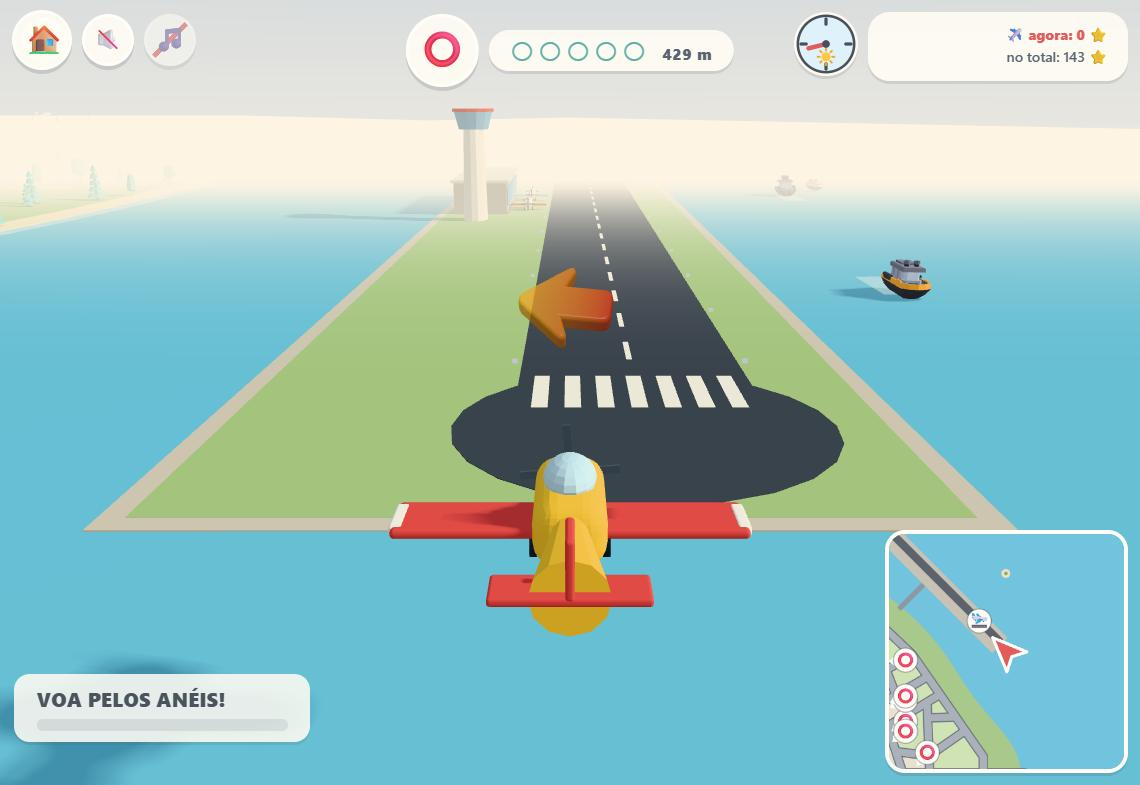
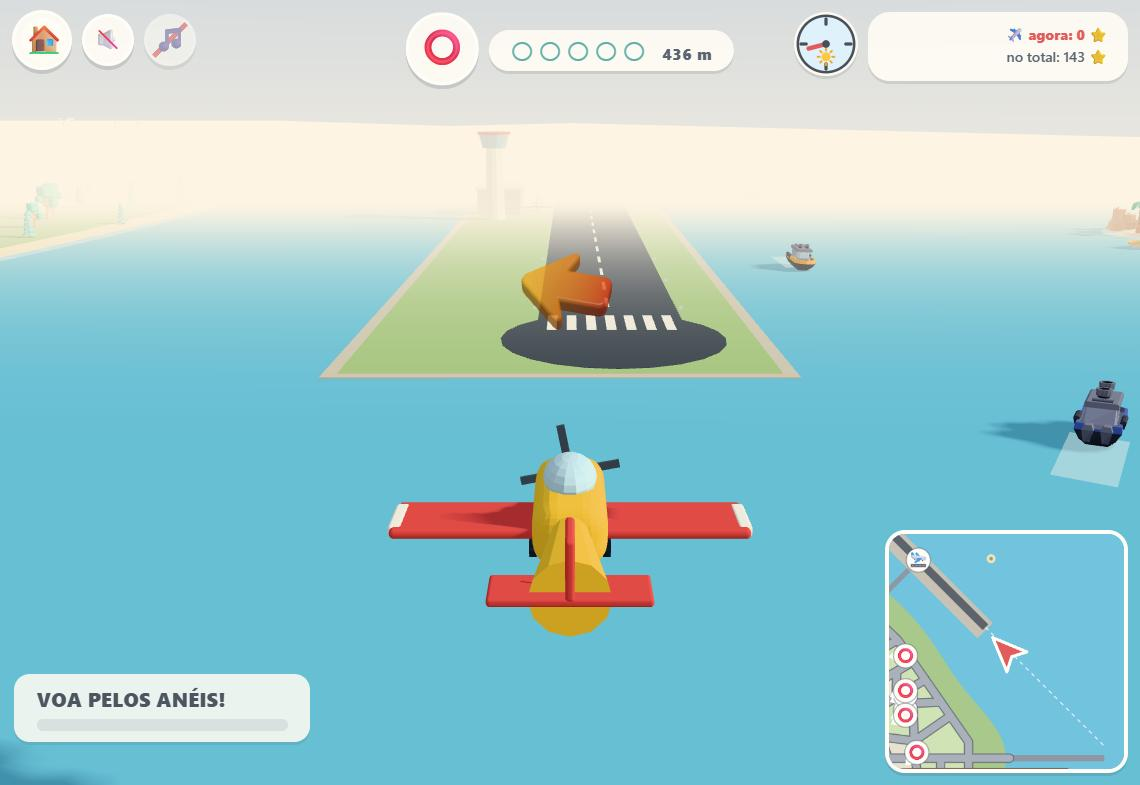
Plane: the map's 🛬 marks the airport of the island the plane is over, on its runway — it led to the nearest of the nearby islands' (near an island's edge, a neighbour's) or to a gate out in the open sea — and the runway's centre line is dotted out from both ends on the map, the way in to line up wit

diff --git a/tools/check-airport.ts b/tools/check-airport.ts
@@ -6,7 +6,7 @@
 //    160 m; its causeway lands on dry land, off the river's mouth; and it is
 //    never in the SE corner (the harbour's).
 //  · On three of them, the real plane (player.ts physics) flown by a kid who
-//    steers at the map's mark (Landing.mark): from the edges of the approach
+//    follows the map's dotted centre line (kidAim): from the edges of the approach
 //    funnel (over the runway, near and far, either side at 90 % of its
 //    width, either way along the runway, 43° off either way; auto speed on,
 //    off, and off with the brake held) and from all round 600 m out — each must come down, touch
@@ -18,19 +18,21 @@
 //    anywhere along it that has room to land — lands. (A plane pointing
 //    10° further out is off the runway by the time it is down: it needs
 //    steering, and the descent is called off.)
+//  · The map's mark is the airport of the island the plane is over (its
+//    runway's middle), even where a neighbour's runway is nearer.
 //  · Descents called off — lined up 500 m out, coming down, then steering
 //    away square to the runway or a tap of the gas: no landing, and it
 //    climbs back to its cruise (the kid flies it in; it is never pulled in).
 //   npx tsx tools/check-airport.ts [baseSeed]
 import './headless-dom.js';
-import { setCityBase, CITY_PITCH, southExit, eastExit } from '../src/worlds/cityGrid.js';
+import { setCityBase, CITY_PITCH, southExit, eastExit, cityAt } from '../src/worlds/cityGrid.js';
 import { coastFor } from '../src/worlds/coast.js';
 import { riverFor } from '../src/worlds/riverRoute.js';
 import { RAIL_OFFSET } from '../src/worlds/railRoute.js';
 import { ISLAND, CENTER } from '../src/worlds/world.js';
-import { airportFor, boxPoint, RUNWAY_HW, RUNWAY_Y } from '../src/games/city/airport.js';
+import { airportFor, airportMark, boxPoint, RUNWAY_HW, RUNWAY_Y } from '../src/games/city/airport.js';
 import { harbourFor, inSeaBox } from '../src/games/city/harbour.js';
-import { Landing, type Runway, type LandEvent } from '../src/games/city/landing.js';
+import { Landing, APPROACH_LEN, type Runway, type LandEvent } from '../src/games/city/landing.js';
 import { createPlayer, physicsStep, VEHICLES, type PlayerState } from '../src/games/city/player.js';
 
 const base = Number(process.argv.slice(2).find(a => !a.startsWith('--')) ?? 7) | 0;
@@ -121,7 +123,28 @@ const runwayOf = (bx: number, by: number): { R: Runway; pad: number } => {
   const A = airportFor(bx, by);
   return { R: { key: `${bx},${by}`, cx: A.runway.cx + bx * CITY_PITCH, cz: A.runway.cz + by * CITY_PITCH, yaw: A.runway.yaw, hl: A.runway.hl }, pad: A.pad };
 };
-const atMark = (_t: number, st: PlayerState, L: Landing, R: Runway): { to: { x: number; z: number } | null; gas: boolean } => ({ to: L.mark(st, [R]), gas: false });
+/** where a kid steers who follows the map's dotted centre line: down it when
+ * lined up with it (the end the plane is heading along), else out to it —
+ * 350 m short of the nearer end */
+function kidAim(R: Runway, st: PlayerState): { x: number; z: number } {
+  let aligned: { x: number; z: number } | null = null, off = Infinity;
+  let gate = { x: R.cx, z: R.cz }, gd = Infinity;
+  for (const yaw of [R.yaw, R.yaw + Math.PI]) {
+    const fx = Math.sin(yaw), fz = Math.cos(yaw), dx = st.x - R.cx, dz = st.z - R.cz;
+    const a = dx * fx + dz * fz, l = dx * fz - dz * fx, short = -R.hl - a;
+    const hd = Math.abs(Math.atan2(Math.sin(st.heading - yaw), Math.cos(st.heading - yaw)));
+    if (a <= R.hl && short <= APPROACH_LEN && Math.abs(l) <= 12 + 0.4 * Math.max(0, short) && hd < off) {
+      off = hd;
+      const am = Math.min(R.hl - 60, a + Math.max(80, 0.45 * Math.max(0, short + 30) + 60));
+      aligned = { x: R.cx + fx * am, z: R.cz + fz * am };
+    }
+    const g = { x: R.cx - fx * (R.hl + 350), z: R.cz - fz * (R.hl + 350) };
+    const d = Math.hypot(g.x - st.x, g.z - st.z);
+    if (d < gd) { gd = d; gate = g; }
+  }
+  return aligned ?? gate;
+}
+const atMark = (_t: number, st: PlayerState, _L: Landing, R: Runway): { to: { x: number; z: number } | null; gas: boolean } => ({ to: kidAim(R, st), gas: false });
 
 let landings = 0, worstStop = -Infinity, followed = 0, cancels = 0;
 const judge = (label: string, f: Flight): void => {
@@ -148,7 +171,7 @@ for (const [bx, by] of [[1, 0], [2, 2], [0, 1]] as const) {
     const start: PlayerState = { x: R.cx + Math.cos(ang) * 600, z: R.cz + Math.sin(ang) * 600, heading: ang + Math.PI, v: 16, alt: 30 };
     const f = flight(R, pad, start, 240, 'auto', (t, st, L) => atMark(t, st, L, R));
     if (f.landed && f.airborne && !f.offRunway) followed++;
-    else fail(`${bx},${by}: flying at the mark from ${(ang * 180 / Math.PI).toFixed(0)}° round, 600 m out: ${f.offRunway ? 'off the runway' : f.phases.join(' → ') || 'no descent'}`);
+    else fail(`${bx},${by}: following the line from ${(ang * 180 / Math.PI).toFixed(0)}° round, 600 m out: ${f.offRunway ? 'off the runway' : f.phases.join(' → ') || 'no descent'}`);
   }
   // calling it off: lined up 500 m out, coming down — then steering away
   // (square to the runway) or pressing the gas: no landing, and it climbs
@@ -160,7 +183,7 @@ for (const [bx, by] of [[1, 0], [2, 2], [0, 1]] as const) {
     const label = `${R.key} ${dir ? 'back' : 'along'}: called off by ${how === 'steer' ? 'steering away' : 'the gas'}`;
     const f = flight(R, pad, start, 40, 'auto', (t, st, L) => {
       if (L.phase === 'descend') descending = true;
-      if (t < 12) return { to: L.mark(st, [R]), gas: false };
+      if (t < 12) return { to: kidAim(R, st), gas: false };
       if (calledOff < 0 && L.phase === 'fly') calledOff = t;
       return how === 'steer'
         ? { to: { x: st.x + fz * 1000, z: st.z - fx * 1000 }, gas: false }
@@ -187,8 +210,22 @@ for (const [bx, by] of [[1, 0], [2, 2], [0, 1]] as const) {
     else fail(`${R.key} ${dir ? 'back' : 'along'}: flying over the runway hands-off from ${a0.toFixed(0)} m along, ${l0} m off, ${(turn * 57.3).toFixed(0)}°: ${f.offRunway ? 'off the runway (' + f.offRunway + ')' : f.phases.join(' → ') || 'no descent'}`);
   }
 }
+// ---- the map's mark is the airport of the island the plane is over: its
+// runway's middle (world) — not a neighbour's, which near an island's edge
+// is the nearer ----
+{
+  let ok = 0, tried = 0;
+  for (const [bx, by] of [[1, 0], [2, 2], [0, 1]] as const) for (const [nx, ny] of [[1, 0], [-1, 0], [0, 1], [0, -1]] as const) {
+    const here = { x: bx * CITY_PITCH + CENTER + nx * 640, z: by * CITY_PITCH + CENTER + ny * 640 };
+    const c = cityAt(here.x, here.z), m = airportMark(c.bx, c.by), own = runwayOf(c.bx, c.by).R;
+    tried++;
+    if (c.bx === bx && c.by === by && Math.hypot(m.x - own.cx, m.z - own.cz) < 1) ok++;
+    else fail(`${bx},${by}: over the island's ${nx},${ny} side (cell ${c.bx},${c.by}) the map's mark is ${Math.hypot(m.x - own.cx, m.z - own.cz).toFixed(0)} m from its airport`);
+  }
+  console.log(`map mark: ${ok} of ${tried} on the island's own airport`);
+}
 console.log(`hands off over the runway: ${handsOff} of ${handsOffTried} landed`);
-console.log(`following the mark: ${followed} of 24 landed; ${cancels} of 12 descents called off (steering away, the gas) climbed back`);
+console.log(`following the dotted line: ${followed} of 24 landed; ${cancels} of 12 descents called off (steering away, the gas) climbed back`);
 console.log(`landings: ${landings} flown — every one down on the runway, stopped (the furthest ${(-worstStop).toFixed(0)} m short of its end), turned and back in the air`);
 
 console.log(fails ? `FAIL — ${fails} problem(s) with the airports (R41)` : 'PASS — every island has its airport, and the plane lands, stops, turns and takes off (R41)');

diff --git a/src/games/city/landing.ts b/src/games/city/landing.ts
@@ -15,7 +15,8 @@
 // on (G18), else rolling to a gentle stop, the brake pedal stopping it sooner
 // (and never past the runway's end) — turns round on the spot, races back
 // down the runway, lifts off and climbs back to its cruise, where the kid has
-// it again. The map's mark leads the kid in (`mark`).
+// it again. The map marks the airport (🛬) and draws the runway's centre line
+// out from both ends, to line up with.
 import type { PhysicsInput, PlayerState } from './player.js';
 import { RUNWAY_Y, RUNWAY_HW } from './airport.js';
 
@@ -26,8 +27,10 @@ export type LandPhase = 'fly' | 'descend' | 'roll' | 'turn' | 'takeoff';
 export type LandEvent = 'land' | 'cancel' | 'landed' | 'takeoff' | 'airborne';
 
 /** where a descent may begin: up to this far short of the threshold (m), or
- * anywhere over the runway */
-const FROM = 700;
+ * anywhere over the runway — the map draws the runway's centre line out this
+ * far from both ends, for the kid to line up with */
+export const APPROACH_LEN = 700;
+const FROM = APPROACH_LEN;
 /** how far off its heading (rad), and off the centre line: a funnel, W0 m
  * either side at the threshold (and over the runway) and widening by SPLAY
  * a metre out */
@@ -35,9 +38,6 @@ const ALIGN = 50 * Math.PI / 180, W0 = 12, SPLAY = 0.4;
 /** the steepest glide it will ask for (m a metre): from over the runway
  * it comes down at ~4 m/s at the approach speed */
 const MAX_SLOPE = 0.35;
-/** the map's mark: the gate this far out on the centre line, where the
- * approach is flown from */
-const GATE = 350;
 /** the glide: down to the runway at the touchdown point, this far past the
  * threshold (m), on this slope (m a metre) — and the approach speed (m/s) */
 const TOUCH = 30, SLOPE = 0.07, V_APP = 12;
@@ -112,37 +112,8 @@ export class Landing {
     return tp > rw.hl - TD_ROOM ? null : tp;
   }
 
-  /** a point on the centre line ahead of the plane (world): fly at it and
-   * the plane comes onto the line before the touchdown, then on down it */
-  private carrot(rw: Runway, st: PlayerState): { x: number; z: number } {
-    const { a } = this.frame(rw, st.x, st.z);
-    const toTouch = (this.phase === 'descend' ? this.tp : -rw.hl + TOUCH) - a;
-    const am = Math.min(rw.hl, a + (toTouch > 0 ? Math.max(80, 0.45 * toTouch + 60) : 80));
-    return { x: rw.cx + Math.sin(rw.yaw) * am, z: rw.cz + Math.cos(rw.yaw) * am };
-  }
-
-  /** where the map marks the way in (world): coming down, or in the funnel
-   * in front of one of the nearest runway's ends, a point on its centre line
-   * ahead — fly at it and the plane lines up and lands; else the nearer of
-   * its two gates, out on its centre line */
-  mark(st: PlayerState, runways: Runway[]): { x: number; z: number } | null {
-    let r: Runway | null = null, bd = Infinity;
-    for (const q of runways) {
-      const d = Math.hypot(q.cx - st.x, q.cz - st.z);
-      if (d < bd) { bd = d; r = q; }
-    }
-    if (!r) return null;
-    if (this.rw && this.rw.key === r.key && this.phase === 'descend') return this.carrot(this.rw, st);
-    let gate: { x: number; z: number } | null = null, gd = Infinity;
-    for (const yaw of [r.yaw, r.yaw + Math.PI]) {
-      const fx = Math.sin(yaw), fz = Math.cos(yaw);
-      if (this.inFunnel({ ...r, yaw }, st.x, st.z)) return this.carrot({ ...r, yaw }, st);
-      const g = { x: r.cx - fx * (r.hl + GATE), z: r.cz - fz * (r.hl + GATE) };
-      const d = Math.hypot(g.x - st.x, g.z - st.z);
-      if (d < gd) { gd = d; gate = g; }
-    }
-    return gate;
-  }
+  /** the key of the runway being landed on (null when flying) */
+  get active(): string | null { return this.phase === 'descend' && this.rw ? this.rw.key : null; }
 
   /** In the air (before the physics): starts and flies a descent — returns
    * the altitude to hold (the glide's), or null for the cruise (`cruise`

diff --git a/src/games/city/index.ts b/src/games/city/index.ts
@@ -5,7 +5,7 @@ import { createStage, makeHUD, applyQuality, type Dressing } from '../../engine/
 import { TIERS, startQuality, qualityPref, setAutoQuality, lowerQuality, higherQuality, autoSpeed, type Quality } from '../../engine/settings.js';
 import { autoInput, type AutoGoal } from './autoSpeed.js';
 import { Landing, type Runway } from './landing.js';
-import { airportFor } from './airport.js';
+import { airportFor, airportMark } from './airport.js';
 import { bakedNight, templateToMesh } from '../../engine/baked.js';
 import { dayState, startPhase, hourOf, DAY_LEN, MOON_PHASES } from '../../engine/daylight.js';
 import { prepBakedModels, bakedModel } from '../../engine/assets.js';
@@ -796,11 +796,11 @@ const minimap = new Minimap(document.getElementById('minimap') as HTMLCanvasElem
       ...(landing && (landing.phase === 'fly' || landing.phase === 'descend') ? nearestRunway() : []),
     ];
   });
-/** the plane's map mark (R41): the way in to the nearest runway — out to
- * the gate on its centre line, then its end (landing.ts mark) */
+/** the plane's map mark (R41): the airport of the island it is over (or of
+ * the runway it is coming down to) */
 function nearestRunway(): Array<{ x: number; z: number; icon: string }> {
-  const m = landing?.mark(player.state, runwaysNear(player.state.x, player.state.z));
-  return m ? [{ ...m, icon: '🛬' }] : [];
+  const [bx, by] = (landing?.active ?? (() => { const h = cityAt(player.state.x, player.state.z); return `${h.bx},${h.by}`; })()).split(',').map(Number);
+  return [{ ...airportMark(bx, by), icon: '🛬' }];
 }
 
 // ---- the city grid: drive across a strait and the next city wakes up.

diff --git a/src/games/city/minimap.ts b/src/games/city/minimap.ts
@@ -16,6 +16,7 @@ import { WORLD_CHUNKS, ISLAND, CENTER } from '../../worlds/world.js';
 import { CITY_PITCH } from '../../worlds/cityGrid.js';
 import { bridgeLayout } from './bridge.js';
 import { airportFor, boxPoint } from './airport.js';
+import { APPROACH_LEN } from './landing.js';
 import { coastFor, causewaySpan } from '../../worlds/coast.js';
 import { isletsFor } from './islets.js';
 import { callIcon, type Missions } from './missions.js';
@@ -221,6 +222,18 @@ export class Minimap {
       quad(A.link, '#8f97a3');
       quad(A.isle, '#c8c2b4');
       quad({ ...A.runway, hl: A.runway.hl + A.pad }, '#5c636d');
+      // the runway's centre line, dotted out from both ends: the way in
+      ctx.strokeStyle = 'rgba(255,255,255,0.9)';
+      ctx.lineWidth = 2.5 * PX;
+      ctx.setLineDash([9 * PX, 9 * PX]);
+      ctx.beginPath();
+      for (const end of [-1, 1]) {
+        const a = boxPoint(A.runway, end * (A.runway.hl + A.pad), 0), b = boxPoint(A.runway, end * (A.runway.hl + APPROACH_LEN), 0);
+        ctx.moveTo(tx(a.x), ty(a.z));
+        ctx.lineTo(tx(b.x), ty(b.z));
+      }
+      ctx.stroke();
+      ctx.setLineDash([]);
     }
 
     // the river, ribbon-width

diff --git a/src/games/city/airport.ts b/src/games/city/airport.ts
@@ -15,7 +15,7 @@ import * as THREE from 'three';
 import { Baked } from '../../engine/baked.js';
 import { ISLAND, CENTER } from '../../worlds/world.js';
 import { coastFor } from '../../worlds/coast.js';
-import { southExit, eastExit, citySeed } from '../../worlds/cityGrid.js';
+import { southExit, eastExit, citySeed, CITY_PITCH } from '../../worlds/cityGrid.js';
 import { RAIL_OFFSET } from '../../worlds/railRoute.js';
 import { riverFor } from '../../worlds/riverRoute.js';
 import type { CollisionBox } from '../../worlds/cityChunk.js';
@@ -143,6 +143,12 @@ export function airportFor(bx: number, by: number): Airport {
   cache.set(key, best);
   if (cache.size > 32) cache.delete(cache.keys().next().value as string);
   return best;
+}
+
+/** where the map marks island (bx, by)'s airport: its runway's middle (world) */
+export function airportMark(bx: number, by: number): { x: number; z: number } {
+  const r = airportFor(bx, by).runway;
+  return { x: r.cx + bx * CITY_PITCH, z: r.cz + by * CITY_PITCH };
 }
 
 /** is (x, z) — city-local — on the airport's island or its causeway

diff --git a/AGENTS.md b/AGENTS.md
@@ -89,7 +89,7 @@ add it here AND add an enforcement point (code guard or audit check).
 | R19 | **The archipelago contract:** each (bx, by) cell is one island city; its four causeway avenues run 300 m straight in from the mouths (`EXIT_IN`), are laid first, are never dropped and each meets the street web inland (the ring road crosses them). Edge exits derive from the *owning* cell so neighbours always agree, and are drawn only from the central lines (the middle line ±3: 7…13 on the 21-chunk island) so every corridor lands on a headland. | `streetGen.ts`, `cityGrid.ts`, `audit-world.ts` |
 | R39 | **Island size lives in one place.** `world.ts`: `WORLD_CHUNKS` = 21 (1344 m islands) and `SCALE` = ISLAND / 896, the size the rules were first tuned on. What is a proportion of the island scales with SCALE — the coast radius (R0 = 360–430 m ×SCALE, headlands ~120 m wide whatever the size), district rings, the diamond's central 384 m search square (fixed), the river's central lane band (±248 m ×SCALE), nature corners (3/14 of the side), the lattice range; what grows with area scales with SCALE² — patches, subdivision rounds, plazas, the car / walker caps; lengths of line with SCALE — rail free points, stations per line, industry cluster, boats. Street-, vehicle- and clearance-scale metres (ROAD_HALF, MIN_EDGE, CLEARANCE, RING_INSET, STEM, EXIT_IN, every TIERS value…) never scale. No generator or tool hard-codes 14 chunks / 896 m: they import `WORLD_CHUNKS` / `ISLAND` / `SCALE`. | `world.ts`, `coast.ts`, `cityGrid.ts`, `railRoute.ts`, `riverRoute.ts`, `streetGen.ts`, `cityPlan.ts`, `island/cars.ts`, `island/walkers.ts`, `sea.ts`, `tools/*` |
 | R40 | **Wherever a street or a railway line crosses the river, it crosses on a real bridge.** `riverDecks.ts` turns each crossing into a raised deck: a street bridge spans exactly the kit road tiles over the water and a ramp (9 m) past both banks (the chunk baker drops those tiles and bakes a humped deck — asphalt, kerbs, walkways, cream parapets, steel fascia girders, stone piers — its crown 1.4 m up, the water flowing on beneath); a line's in-water run gets a timber trestle along its (straight, R27) chord, ramps 12 m past the banks, crown 1.2 m (transit drops the track pieces it covers and bakes deck, sleepers, rails, guard rails and posts). `causeway.deckAt()` reports them, so the kid's vehicle, the island's cars, walkers, the getaway car and every train ride up and over (a road vehicle on a deck isn't slowed as if fording). **Nothing is built on a deck**: a deck is 10 m wide each side of the street and runs a ramp and a kit tile past both banks, while lots keep only 7.9 m from a centreline — houses, buildings and yards stood on the walkways and parapets of every bridge (seed 912064659, island (2,0)) — so `addLot` keeps every lot outline clear of each river bridge's reach (`deckDims.ts deckReach`: the river's half-width + 2.5 m of bank + the 9 m ramp + a 14 m tile, 1.5 m more each way, across `BRIDGE_HALF` + 1.5 m; the deck's own geometry isn't known yet when lots are laid, so the reach is the most a deck can span), the grid paints each road deck's whole rectangle DECK (props and trees never claim DECK — `BLOCKED_FOR_PROPS` — while walkers still walk its walkways: painted ROAD they took the walkway for the carriageway and turned back), an industrial chimney or water tower claims its real footprint (it claimed a token 1.6 m and a 5 m tower stood on a walkway), and the audit fails any lot outline within a road deck (+1 m) or a deck cell without DECK (R40; R33's buildable ground leaves the bridges' reach out). A street whose tiles can't reach a ramp past the water, or a line whose track leaves its chord by 0.8 m or has a level crossing on a ramp, keeps the plain crossing. `riverDeckAt` answers only on an island already built (R21). The parapets are a soft wall: up on a raised deck a road vehicle slides along them, its side kept inside, never off the bridge (`player.ts offDeckSide`). | `riverDecks.ts`, `deckDims.ts`, `cityPlan.ts addLot`, `grid.ts`, `causeway.ts deckAt`, `cityChunk.ts bakeBridgeDeck`, `transit.ts bakeTrestle`, `island/cars.ts`, `island/walkers.ts`, `robber.ts`, `index.ts` |
-| R41 | **Every island has an airport, on its own island off a corner — and the plane lands on it by itself.** A reclaimed island Changi-style (`airport.ts airportFor`), laid by the game layer from the coast alone like the picnic island (the city plan, its streets and lots are untouched: `tools/plan-hash.ts` stays the same), in whichever of the NW / NE / SW corners has the most room (never the SE: the pier, the anchored ship and the big ships are there): 48 m wide, lying along the shore (turned up to ±0.3 rad to follow it) 70 m out — past the three boat lanes, which swing out round the whole of it (`sea.ts`: past the farthest of it each way out from the shore crosses) — inside the cell by 30 m, 60 m clear of the causeway corridors, the picnic island and the harbour, as long as fits (up to 430 m; its runway about 260–400 m, never under 160), joined to the shore by a low causeway square to it (onto dry land, off the river's mouth) that the road vehicles drive out on (`player.ts onGround`; boats slide along both, `onLand`; the big ships keep 45 m off, the treasure islets 75 m). On it: the runway seaward of its middle (18 m, centre dashes, piano keys at both thresholds, a turning pad at each end — no painted numbers: G9), its edge lights every 20 m (grey studs by day, glowing at night: G10), and shoreward the apron: the terminal (glass front), the control tower, a hangar (solid, G14), a windsock and two planes at the gates; it is on the minimap, and flying the plane the way in to the nearest runway is marked there (🛬, on the map's rim pointing the way when it's off it; a mark at the runway's middle brought the plane in square to it from the island, and it never landed). **Landing is free play, flown by the kid** (`landing.ts`): pointed roughly down a runway — up to 700 m short of either threshold or anywhere over the runway itself, in a funnel 12 m either side of its centre line (the runway's width) widening by 0.4 m a metre out, heading within 50° along it, with room to land — the plane starts to come down (`Landing.fly` hands the physics the height to hold; flying over the runway once did nothing at all, since the descent began only in the approach zone): it sinks along a glide toward a touchdown point — a 0.07 slope from far out to 30 m past the threshold, a steeper one (up to 0.35, ~4 m/s) when it is already over the runway, whose touchdown point is that far along it with 40 m of runway to spare — never above where the descent began, and eases to its 12 m/s approach speed — but the kid flies it the whole way, steering as always (it was once taken over and flown in like a magnet: not what was wanted). Steering it out of the funnel, turning it more than 70° off, or the kid's own gas pedal (not auto speed's, which leaves the gas alone while it comes down) calls it off, and it climbs back to its cruise; that runway end starts no new descent until the plane has been out of its funnel for 3 s. Close to the ground (below 8 m) over the runway it eases round onto the runway's heading and toward its centre line (0.6 rad/s), unless the kid is steering hard — so a kid a little off the line still lands. Over the runway lined up — within 6.5 m of the centre line and 25° of its heading — it touches down; not lined up it holds 4 m up and, past the runway, climbs away. On the ground the landing has it (`Landing.ground`): with auto speed on (G18) it brakes itself to a stop (2.5 m/s²), else it rolls to a gentle stop (1.5 m/s²) and the brake pedal stops it sooner (7) — never past the runway's end; standing, it turns round on the spot (3.5 s), races back down the runway, lifts off at 11 m/s and climbs away, the kid's again at 12 m. The map's 🛬 leads the kid in (`Landing.mark`): to the nearer gate 350 m out on the centre line, then — in the funnel or coming down — a point on the centre line ahead, so flying at it lines the plane up and lands it. The narrator says each (`say-land`, `say-landed`, `say-takeoff`); R cancels a landing. `tools/check-airport.ts [seed]` holds the layouts on the 25 islands round the origin and, with the real plane physics and a kid steering at the mark, flies on each of three: 96 landings from the funnel's edges (over the runway, near and far, both ways, either side at 90 % of its width, 43° off either way; auto on, off, braking), 36 flown hands off over the runway (within 6 m of the centre line, straight, pointing back in or drifting out 3°) and 8 from all round 600 m out — each must touch down on the runway, never leave it or its pads on the ground, stop before its end, turn and take off again — and 4 descents called off (steering away square to the runway, a tap of the gas): none may land, each must climb back to 25 m; `tools/check-sea.ts` holds the boats off it. | `airport.ts`, `landing.ts`, `index.ts`, `player.ts`, `sea.ts`, `islets.ts`, `scenery.ts`, `minimap.ts`, `tools/check-airport.ts` |
+| R41 | **Every island has an airport, on its own island off a corner — and the plane lands on it by itself.** A reclaimed island Changi-style (`airport.ts airportFor`), laid by the game layer from the coast alone like the picnic island (the city plan, its streets and lots are untouched: `tools/plan-hash.ts` stays the same), in whichever of the NW / NE / SW corners has the most room (never the SE: the pier, the anchored ship and the big ships are there): 48 m wide, lying along the shore (turned up to ±0.3 rad to follow it) 70 m out — past the three boat lanes, which swing out round the whole of it (`sea.ts`: past the farthest of it each way out from the shore crosses) — inside the cell by 30 m, 60 m clear of the causeway corridors, the picnic island and the harbour, as long as fits (up to 430 m; its runway about 260–400 m, never under 160), joined to the shore by a low causeway square to it (onto dry land, off the river's mouth) that the road vehicles drive out on (`player.ts onGround`; boats slide along both, `onLand`; the big ships keep 45 m off, the treasure islets 75 m). On it: the runway seaward of its middle (18 m, centre dashes, piano keys at both thresholds, a turning pad at each end — no painted numbers: G9), its edge lights every 20 m (grey studs by day, glowing at night: G10), and shoreward the apron: the terminal (glass front), the control tower, a hangar (solid, G14), a windsock and two planes at the gates; it is on the minimap, and flying the plane the airport of the island it is over (or of the runway it is coming down to) is marked there (🛬 on its runway's middle, on the map's rim pointing the way when it's off it — not whichever neighbour's is nearer, which near an island's edge was another island's) with the runway's centre line dotted out 700 m from both ends: the way in, to line up with (a mark off the runway's end, on that line, once led the kid but sat in the open sea and looked like no airport; one at the runway's middle alone brings the plane in square to it, and it never lands). **Landing is free play, flown by the kid** (`landing.ts`): pointed roughly down a runway — up to 700 m short of either threshold or anywhere over the runway itself, in a funnel 12 m either side of its centre line (the runway's width) widening by 0.4 m a metre out, heading within 50° along it, with room to land — the plane starts to come down (`Landing.fly` hands the physics the height to hold; flying over the runway once did nothing at all, since the descent began only in the approach zone): it sinks along a glide toward a touchdown point — a 0.07 slope from far out to 30 m past the threshold, a steeper one (up to 0.35, ~4 m/s) when it is already over the runway, whose touchdown point is that far along it with 40 m of runway to spare — never above where the descent began, and eases to its 12 m/s approach speed — but the kid flies it the whole way, steering as always (it was once taken over and flown in like a magnet: not what was wanted). Steering it out of the funnel, turning it more than 70° off, or the kid's own gas pedal (not auto speed's, which leaves the gas alone while it comes down) calls it off, and it climbs back to its cruise; that runway end starts no new descent until the plane has been out of its funnel for 3 s. Close to the ground (below 8 m) over the runway it eases round onto the runway's heading and toward its centre line (0.6 rad/s), unless the kid is steering hard — so a kid a little off the line still lands. Over the runway lined up — within 6.5 m of the centre line and 25° of its heading — it touches down; not lined up it holds 4 m up and, past the runway, climbs away. On the ground the landing has it (`Landing.ground`): with auto speed on (G18) it brakes itself to a stop (2.5 m/s²), else it rolls to a gentle stop (1.5 m/s²) and the brake pedal stops it sooner (7) — never past the runway's end; standing, it turns round on the spot (3.5 s), races back down the runway, lifts off at 11 m/s and climbs away, the kid's again at 12 m. The kid lines up with the dotted line on the map. The narrator says each (`say-land`, `say-landed`, `say-takeoff`); R cancels a landing. `tools/check-airport.ts [seed]` holds the layouts on the 25 islands round the origin and, with the real plane physics and a kid following the dotted line, flies on each of three: 96 landings from the funnel's edges (over the runway, near and far, both ways, either side at 90 % of its width, 43° off either way; auto on, off, braking), 36 flown hands off over the runway (within 6 m of the centre line, straight, pointing back in or drifting out 3°) and 8 from all round 600 m out (the map's mark itself is held to the island's own airport, 12 positions near island edges) — each must touch down on the runway, never leave it or its pads on the ground, stop before its end, turn and take off again — and 4 descents called off (steering away square to the runway, a tap of the gas): none may land, each must climb back to 25 m; `tools/check-sea.ts` holds the boats off it. | `airport.ts`, `landing.ts`, `index.ts`, `player.ts`, `sea.ts`, `islets.ts`, `scenery.ts`, `minimap.ts`, `tools/check-airport.ts` |
 | R29 | **The island has a real shore, and the sea carries nothing built but causeway decks.** `coastFor(bx,by)` is the one authority on land vs sea: a seeded star polygon (harmonic bays, never past the rim − 14 m) with headlands swelling toward the four causeway portals. Streets keep their whole carriageway ≥11 m inland (pad corners reach 9.9 m), lots keep centre ≥4 m and corners ≥2 m inland, stations 25 m, and a rail route with any sample <12 m from the sea never ships (`shapeQuality.offLand` gates it; the scorer pulls control points inland). Causeway decks — the avenue and the railway deck 24 m beside it — span exactly from our last dry land on each corridor to the neighbour's first (`causewaySpan`), baked whole by their own streamed layer (`causeways.ts` + `causewayDeck.ts`: every deck of the islands round the kid built once any of it comes within 450 m, dropped past 650 m, one bake a frame — baked with the chunk holding its shore point, a deck only existed while that chunk was in view and popped in at the last moment from the far shore), and rise into a raised middle span (`causeway.ts`: 48 m ramps to 5.5 m): road vehicles, the kid's train and the timetable trains ride `deckAt()`, the camera follows, and the boat lane swings out to 44 m off the shore at every corridor (and round the picnic bridge and island, G14) so it only ever passes under deck ≥3.4 m high (a boat treats lower deck as a wall; the audit checks the lane). Chunks wholly off the shore are never built; the boat lane, buoys, foam ring, pier, sea spawn, walkers and both shore walls derive from the same polygon — boats slide along the beach (`onLand`), road vehicles along the waterline (`onGround`: land, causeway decks, the picnic bridge + isle), a scrape never a crash. The grid paints SEA off the shore and DECK over the exit corridors and the rail stems; the audit fails any SEA cell carrying LOT/PLAZA, or ROAD/RAIL without DECK. Streets check both kerbs against the shore too (a steep headland flank turns faster than the radial inset). | `coast.ts`, `cityPlan.ts offLand/addLot`, `railRoute.ts`, `causeways.ts`, `causewayDeck.ts`, `grid.ts`, `sea.ts`, `player.ts onLand/onGround`, `audit-world.ts` (R29) |
 | R20 | New games roll a fresh seed and write it into the URL; `?seed` replays a world exactly. `?mode=` picks the play mode (`modes.ts`: truck, police, ambulance, tow, garbage, heliMedical, heliPolice, plane, boat, policeBoat, pirate, train, race, car — the free drive: a family car, no calls, no course, no arrow and no score, just the islands); the default is the medical helicopter, and old `?vehicle=` links alias onto modes (`kart` → race). The race mode starts on race island (0,0); every other mode starts on island (1,0). The old `?race=1` circuit and `racetrack.ts` stay gone — racing lives on the race islands (R32). | `index.ts`, `modes.ts` |
 | R21 | Per-city systems stream and LRU (transit keep-4 — including both lines' track —, scenery keep-3, island simulations keep-4, chunks by view radius; the railway draws only trains near the player). Everything must survive crossing a strait and coming back. **No island loads in a frame:** the world worker (`worldWorker.ts` via `prefetch.ts`) builds the eight islands round the kid's and the four beyond them in line — nearest to the kid first, re-ranked every second — and installs them into the generators' caches (R38); the plan / rail / street / grid caches are LRU and sized to hold them with the current island (a FIFO cache evicted the island the kid was on). A woken island's catch-up runs 4 ms a frame (a full 90 s catch-up was ~3 s in one frame); its fallback cars share one mesh per colour; a neighbour within 300 m builds its level crossings, platforms and track 3 ms a frame (`Transit.prepare/pump`). Chunks bake in the chunk worker (`chunkWorker.ts`): the game sends it the baked kit templates once (`exportBakedTemplates`) and every island it has (so it never rebuilds a plan), then up to four chunk requests at a time, nearest first; replies are the merged geometry's arrays (`Baked.buildData` → `meshFromBakedData`) and the boxes, dropped if the chunk went out of range meanwhile. The boot ring still bakes synchronously; without the worker (or `?noworker=1`) chunks bake here, one a frame. Nothing on the main thread builds a neighbour mid-frame: until the world worker has delivered it (`islandReady`), its trains aren't drawn and a train's tail across its portal waits at the portal (`setIslandGate` — the audit and node tools leave the gate open), its population doesn't wake, its transit isn't prepared, `onGround` reads exit lines from the grid rather than its plan, and chunk traffic lights come with the worker's chunk (`chunkLights`). Before this, driving up to a strait froze the game 2–9 s; now the worst frame is ~0.1 s. `?noprefetch=1` builds on demand, for comparison. | `chunks.ts`, `transit.ts`, `scenery.ts`, `island/manager.ts`, `island/sim.ts`, `prefetch.ts`, `worldWorker.ts`, `chunkWorker.ts` |

diff --git a/docs/HISTORY.md b/docs/HISTORY.md
@@ -26,8 +26,9 @@ its corners, joined to the shore by a causeway (like Singapore's Changi):
 a runway with lights for the night, a terminal, a control tower, a hangar,
 a windsock and planes at the gates; the airport is on the map. Landing is
 flown by the child: point the plane down a runway — or just fly over it —
-and it starts to come down a gentle glide, and the 🛬 on the map leads the
-way in. The child steers it in the whole way and can call it off any time by
+and it starts to come down a gentle glide. The map marks the airport of
+the island below with a 🛬 and draws the runway's line dotted out from both
+ends, to line up with. The child steers it in the whole way and can call it off any time by
 steering away or pressing the gas; the plane climbs back up. Close to the
 ground it eases onto the runway's line, so a plane a little off still lands.
 Once on the runway it stops (by itself with auto speed), turns round on the
@@ -44,7 +45,7 @@ anywhere on the islands.
 
 | | |
 |---|---|
-| ![The plane coming down onto the runway; the airport is marked on the map](history/2026-10-08-airports/descent.jpg) | ![Rolling out on the runway, past the control tower](history/2026-10-08-airports/landing-roll.jpg) |
+| ![The plane coming down onto the runway: the map marks the airport and dots its approach line](history/2026-10-08-airports/descent.jpg) | ![Rolling out on the runway, past the control tower](history/2026-10-08-airports/landing-roll.jpg) |
 | ![Turned round at the end of the runway, taking off again](history/2026-10-08-airports/takeoff.jpg) | ![The airport's causeway leading out to its island](history/2026-10-08-airports/airport-island.jpg) |
 | ![The race grid: eight cars, the child last (8th)](history/2026-10-08-airports/race-grid.jpg) | ![The free-drive car in the city: no missions, no arrow](history/2026-10-08-airports/car-drive.jpg) |
 | ![The garage's settings: auto speed, with its note](history/2026-10-08-airports/auto-speed-settings.jpg) | |

diff --git a/README.md b/README.md
@@ -49,7 +49,7 @@ and carries on from a spot just behind.
 | 🚛 Garbage truck | Drive to full bins, stop the side grabber at each one to tip it in; three stops fill the truck — then off to the recycling depot |
 | 🚁 Rescue helicopter | Fly to the call, hover over it and winch the person up, then land on a hospital's roof helipad |
 | 🚁 Police helicopter | Keep the getaway car in the searchlight |
-| ✈ Plane | Swoop through sky rings (it can't stall or crash); point it down an airport's runway (the 🛬 on the map shows the way in) and it comes down to land while the kid steers it in — steer away or press the gas to call it off; on the ground it stops, turns round and takes off again |
+| ✈ Plane | Swoop through sky rings (it can't stall or crash); point it down an airport's runway (the 🛬 on the map marks the airport, a dotted line the way in) and it comes down to land while the kid steers it in — steer away or press the gas to call it off; on the ground it stops, turns round and takes off again |
 | 🚤 Boat | Sail round the island through the buoys, among some thirty boats and ships |
 | 🚨 Police boat | Chase the speedboats breaking the rules and the pirate ship; stay in their wake till they give up, then bring them to the police pier |
 | 🏴☠ Pirate ship | Catch the rival pirate ship and the merchants, win the sea battle with the cannon, then follow the treasure map to a little island and dig up the chest |
